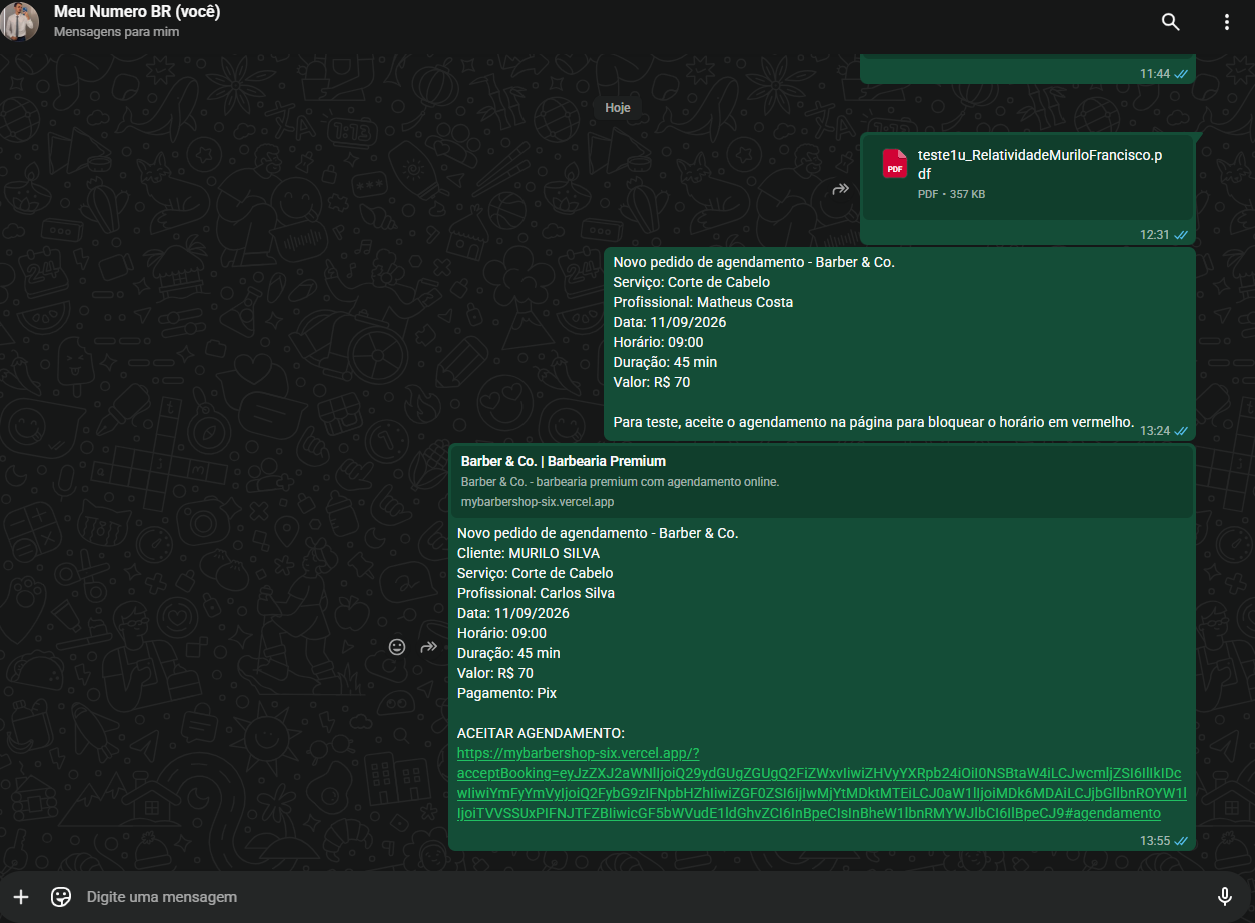
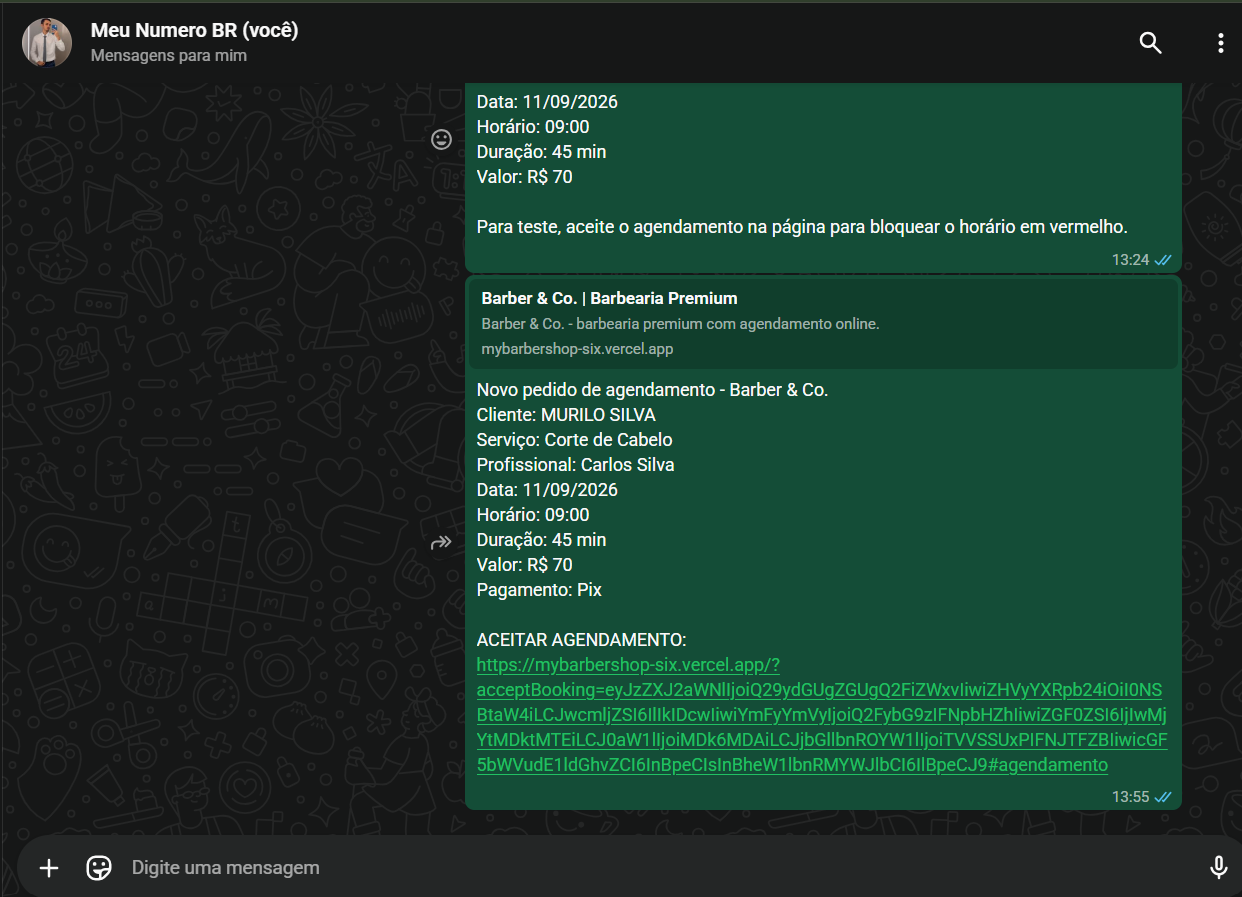
Refine Barber project portfolio copy

diff --git a/index.html b/index.html
@@ -299,12 +299,11 @@ h1,.section-head h2,.contact h2,.modal-body h3{font-family:"Space Grotesk",sans-
                         <div class="meta"><span>Landing page</span><span>2026</span></div>
                         <h3>Barber & Co.</h3>
                         <p>Site premium de barbearia com foco em conversao, servicos, equipe, pagamento e agendamento online.</p>
-                        <div class="tags"><span>HTML</span><span>Tailwind CSS</span><span>JavaScript</span><span>Vercel</span></div>
+                        <div class="tags"><span>HTML</span><span>Tailwind CSS</span><span>JavaScript</span><span>WhatsApp</span></div>
                         <div class="project-actions">
                             <button class="btn secondary open-modal" data-project="mybarbershop">Ver detalhes</button>
                             <div class="icons">
                                 <a class="icon" href="https://mybarbershop-six.vercel.app" target="_blank" rel="noreferrer" aria-label="Abrir Barber & Co."><i class="fa-solid fa-arrow-up-right-from-square"></i></a>
-                                <a class="icon" href="https://github.com/murilosilvaof/MyBarbershop" target="_blank" rel="noreferrer" aria-label="GitHub Barber & Co."><i class="fa-brands fa-github"></i></a>
                             </div>
                         </div>
                     </div>
@@ -581,13 +580,13 @@ const data = {
     },
     mybarbershop: {
         rank: "Projeto 05",
-        status: "Publicado",
+        status: "Sistema comercial",
         type: "Site com agendamento",
         title: "Barber & Co.",
         summary: "Site profissional para barbearia com visual premium, foco em conversao e fluxo completo de agendamento online.",
-        role: "Desenvolvimento de uma single page responsiva, criacao do fluxo de reserva, simulacao de pagamento Pix/cartao, integracao com WhatsApp para aceite do barbeiro, publicacao no GitHub e deploy em producao na Vercel.",
-        stack: ["HTML", "Tailwind CSS", "JavaScript", "Vercel", "GitHub"],
-        list: ["Mostra capacidade de criar uma experiencia comercial completa, nao apenas uma pagina visual.", "Fluxo de agendamento em etapas com servico, barbeiro, data, cliente e pagamento.", "Publicacao real em Vercel com repositorio GitHub conectado para portfolio."],
+        role: "Desenvolvimento de uma experiencia comercial responsiva para barbearias, com apresentacao de servicos, profissionais, captura de dados do cliente, pagamento simulado e confirmacao de agendamento via WhatsApp.",
+        stack: ["HTML", "Tailwind CSS", "JavaScript", "WhatsApp", "Pix"],
+        list: ["Ajuda a transformar visitantes em clientes com chamada de acao clara e fluxo de reserva guiado.", "Organiza servicos, barbeiros, horarios livres e confirmacoes em uma experiencia simples para o cliente.", "Permite demonstrar um sistema vendavel para barbearias que querem agendamento online sem depender apenas de mensagens manuais."],
         image: "assets/mybarbershop/dashboard.png",
         alt: "Tela principal do Barber & Co.",
         gallery: [
@@ -622,7 +621,7 @@ const data = {
                 text: "Confirmacao preparada para envio ao WhatsApp do barbeiro, com link de aceite para bloquear o horario como ocupado."
             }
         ],
-        links: [["https://mybarbershop-six.vercel.app", "Abrir site", "primary", "fa-solid fa-arrow-up-right-from-square"], ["https://github.com/murilosilvaof/MyBarbershop", "Ver GitHub", "secondary", "fa-brands fa-github"]]
+        links: [["https://mybarbershop-six.vercel.app", "Abrir site", "primary", "fa-solid fa-arrow-up-right-from-square"]]
     },
     marcato: {
         rank: "Projeto 06",
